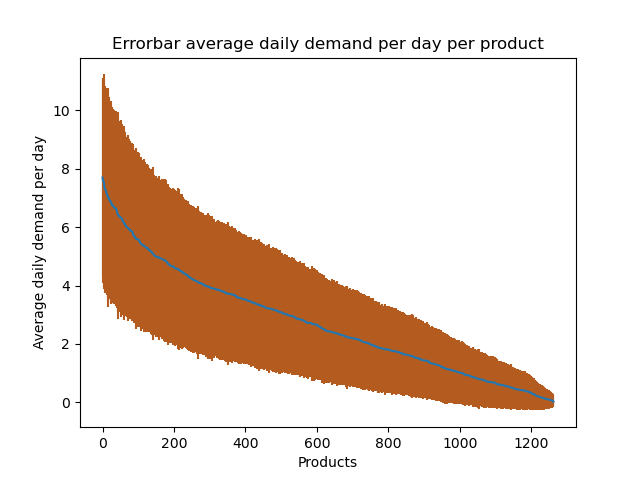
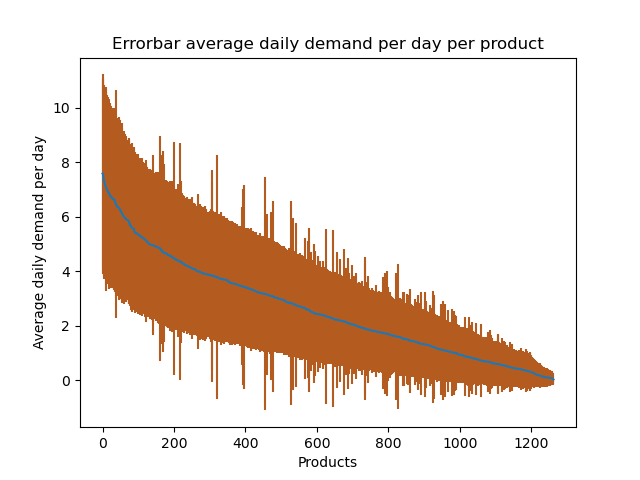
fixed 0 buckets (again) & create product couples

diff --git a/final/belsimpel.py b/final/belsimpel.py
@@ -55,7 +55,6 @@ day_count = es.search(index=index_name, aggs=day_count_search, size=0)
 total_days = day_count["aggregations"]["unique_days_count"]["value"]
 
 # step 1.14
-
 daily_demand_per_product = np.zeros((len(df_products) + 1, total_days))
 
 def compute_daily_demand_on_product_id(index, product_id):
@@ -78,7 +77,9 @@ def compute_daily_demand_on_product_id(index, product_id):
             "histogram": { #source: ht tps://www.elastic.co/guide/en/elasticsearch/reference/current/search-aggregations-bucket-histogram-aggregation.html
                 "field": "day",
                 "interval": 1,
-                # "min_doc_count": 0, # this is working to also get the 0 buckets, but this is very slow
+                "extended_bounds": { #add this return zero buckets source: https://www.elastic.co/guide/en/elasticsearch/reference/current/search-aggregations-bucket-histogram-aggregation.html#search-aggregations-bucket-histogram-aggregation-extended-bounds
+                  "min": 1,
+                },
                 "order": {
                     "_key": "asc"
                 }
@@ -102,7 +103,6 @@ start_time = datetime.datetime.now()
 print("Compute basic stats of the daily demand for each of the", len(df_products), "unique products sold over", total_days, "days")
 print("Starting at", start_time)
 print("please wait... I am computing")
-
 # use list comprension with an for faster iteration source: https://stackoverflow.com/questions/16476924/how-to-iterate-over-rows-in-a-dataframe-in-pandas 
 [compute_daily_demand_on_product_id(index, product_id) for index, product_id in zip(df_products.index, df_products["product_id"])]
 
@@ -278,17 +278,41 @@ https://numpy.org/doc/stable/reference/generated/numpy.corrcoef.html
 https://seaborn.pydata.org/generated/seaborn.heatmap.html  
 """
 print("Identify product couples with highly correlated demands")
-
-x = daily_demand_per_product[1:] # skip the first element because this is not filled
-rho = np.corrcoef(x)
+# daily_demand_per_product returns [product_id][day] = sales 
+product_couples = []
+x = daily_demand_per_product[1:] # skip the first element because this has only zeroes
+corr_matrix = np.corrcoef(x)
 cmap = sns.color_palette("coolwarm", as_cmap=True)
-sns.heatmap(rho, cmap=cmap)
+sns.heatmap(corr_matrix, cmap=cmap)
 plt.title("Corr. matrix between the average daily demands of products")
 plt.savefig(os.path.join(sys.path[0], "plots", "corr_matrix_avg_daily_demand.png"))
 plt.close()
 
-flat = rho.flatten()
-print(flat)
+#source: https://stackoverflow.com/questions/60162118/how-to-get-nth-max-correlation-coefficient-and-its-index-by-using-numpy
+def create_product_couples(index, corr):
+    def is_first_product_a_higher_class(first_class_percentage : str, second_class_percentage : str):
+        first_class = int(first_class_percentage.split("%")[0])
+        second_class = int(second_class_percentage.split("%")[0])
+        if first_class > second_class: return True
+        else: return False
+
+    flat = np.array(corr).flatten()
+    #get all highly correlated products
+    result = np.where(flat >= 0.6)[0] #to get the the "natural" answer of numpy.where, we have to do [0] source: https://stackoverflow.com/questions/50646102/what-is-the-purpose-of-numpy-where-returning-a-tuple
+    if len(result) > 1: 
+        highly_correlated_indexes = np.array(result)
+        highly_correlated_indexes = highly_correlated_indexes[highly_correlated_indexes != index] #This removes the product index that is correlated to itself (the perfect 1.0 index)
+        df_first_product = df_products.loc[df_products.index == index,:] 
+        for correlated_index in highly_correlated_indexes:
+            df_second_product = df_products.loc[df_products.index == correlated_index,:] 
+            if is_first_product_a_higher_class(df_first_product["product_class"].values[0], df_second_product["product_class"].values[0]):
+                product_couples.append((df_first_product["product_id"].values[0], df_second_product["product_id"].values[0]))
+
+[create_product_couples(index, corr) for index, corr in enumerate(corr_matrix)]
+
+print("Found", len(product_couples), "product couples")      
+print(product_couples)
+        
 
 
 
